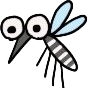
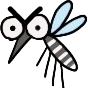
모기이미지추가

diff --git a/src/pages/Game/Game.tsx b/src/pages/Game/Game.tsx
@@ -1,6 +1,8 @@
 import React, { useState, useEffect, useRef } from "react";
-import imgMosquito from "./images/mosquito1.png";
-import imgDeath from "./images/death.png";
+import imgMosquito0 from "./images/mosquito0.png";
+import imgMosquito1 from "./images/mosquito1.png";
+import imgMosquito2 from "./images/mosquito2.png";
+import imgMosquito3 from "./images/mosquito3.png";
 import '../../App.css';
 interface mosquito{
   mosquitoCount: number;
@@ -14,6 +16,9 @@ function Game() {
   const width: number = 1000;
   const height: number = 700;
   const clicker: any[] = [];
+  let mosquitoImgArr : any[] = [];
+  let mosquitoImgArrTemp : any[] = [];
+  let imgNumber = 4;
   const game = {
     req: '',score:0
   };
@@ -22,6 +27,14 @@ function Game() {
     , speed: 1
     , MosquitoArr: []
   };
+
+  
+  //모기 이미지 입력
+  mosquitoImgArrTemp = [imgMosquito0,imgMosquito1,imgMosquito2,imgMosquito3];
+  for(let i=0;i<imgNumber;i++){
+    mosquitoImgArr[i] = new Image();
+    mosquitoImgArr[i].src = mosquitoImgArrTemp[i]
+  }
 
   const onStart = () => {
     const canvas = canvasRef.current;
@@ -73,7 +86,7 @@ function Game() {
             game.score += val + (val1*3);
           }
         })
-        drawMosquito(bub.x, bub.y, bub.size);
+        drawMosquito(bub.img, bub.x, bub.y); 
       })
 
       requestAnimationFrame(draw);
@@ -87,7 +100,9 @@ function Game() {
       let yPos = Math.random() * (canvas.height - mosquitoSize);
       let directionX = Math.floor(Math.random() * 2 - 1) >= 0 ? 1 : -1; //모기 비행 방향
       let directionY = Math.floor(Math.random() * 2 - 1) >= 0 ? 1 : -1;
+      let imgNum : number = Math.floor(Math.random()*imgNumber);
       mosquito.MosquitoArr.push({
+        img: mosquitoImgArr[imgNum],
         x: xPos,
         y: yPos,
         size: mosquitoSize,
@@ -97,30 +112,26 @@ function Game() {
       });
     }
 
-    function drawMosquito(xPos: number, yPos: number, mosquitoSize: number) {
+    function drawMosquito(img:any, xPos: number, yPos: number) {
       if (!canvas) return;
       if (!ctx) return;
+      ctx.drawImage(img, xPos, yPos);
+    }
 
-      //배경 모기 그리기
-      let mosquitoImage = new Image();
-      mosquitoImage.src = imgMosquito;
-      ctx.drawImage(mosquitoImage, xPos, yPos);
+    canvas.addEventListener('click', (e) => {
+      const rect = canvas.getBoundingClientRect();
+      const mouseClick = {
+        x: e.clientX - rect.left,
+        y: e.clientY - rect.top,
+        size: 50
       }
-
-      canvas.addEventListener('click', (e) => {
-        const rect = canvas.getBoundingClientRect();
-        const mouseClick = {
-          x: e.clientX - rect.left,
-          y: e.clientY - rect.top,
-          size: 50
-        }
-        clicker.push(mouseClick);
-        mosquito.MosquitoArr.forEach((bub, index) => {
-            if(colCheck(bub, mouseClick)){
-              mosquito.MosquitoArr.splice(index, 1);
-            }
-        })
+      clicker.push(mouseClick);
+      mosquito.MosquitoArr.forEach((bub, index) => {
+          if(colCheck(bub, mouseClick)){
+            mosquito.MosquitoArr.splice(index, 1);
+          }
       })
+    })
 
     function colCheck(a:any, b:any) {
       let hit = a.x < b.x + b.size && a.x + a.size > b.x && a.y < b.y + b.size && a.y + a.size > b.y;
@@ -136,15 +147,14 @@ function Game() {
     onStart();
   },[])
 
-  //1.로그인을 해야만, 게임을 할 수 있게 할 것
-  //2.모기를 클릭하면, 모기의 눈이 X로 변할 것.
-  //3.시간이 멈추면, 등수 등록할 것(아이디, 걸린 시간)
-  //4.게임 시작버튼 만들 것
-  //5.게임을 시작하면 '시작버튼'이 '재시작'이 될 것
-  //6.'재시작'하면 재시작할 것
-  //7.시작버튼 누르면 모기가 움직이기 시작함
-  //8.게임이 멈추면, 게임오버 이미지와, 게임 등수(아이디, 걸린 시간)가 출력될 것
-  //9.게임시작하면, 마우스 포인터를 '모기채'로 바꿀 것
+  //1.로그인을 해야만, 게임을 할 수 있게 할 것 >> 로그인 페이지 부터(redux)
+  //2.시간이 멈추면, 등수 등록할 것(아이디, 걸린 시간)
+  //3.게임 시작버튼 만들 것
+  //4.게임을 시작하면 '시작버튼'이 '재시작'이 될 것
+  //5.'재시작'하면 재시작할 것
+  //6.시작버튼 누르면 모기가 움직이기 시작함
+  //7.게임이 멈추면, 게임오버 이미지와, 게임 등수(아이디, 걸린 시간)가 출력될 것
+  //8.게임시작하면, 마우스 포인터를 '모기채'로 바꿀 것
 
   return (
     <div className="canvasBox">
@@ -154,9 +164,9 @@ function Game() {
         width={width}
         className="canvas"
       />
-      <p>
-         This page is working
-       </p>
+      <div>
+        <button id="startGame">Start game</button>
+      </div>
     </div>
   );
 }
